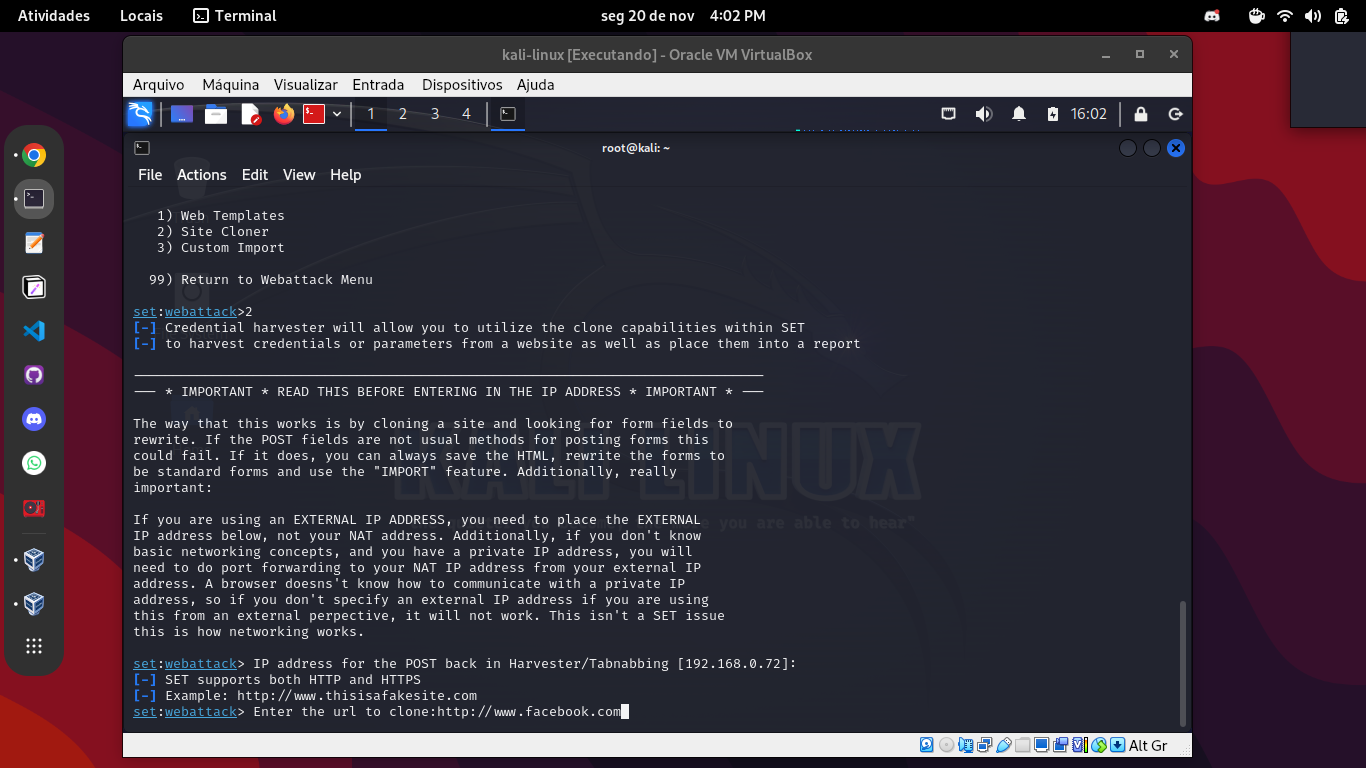
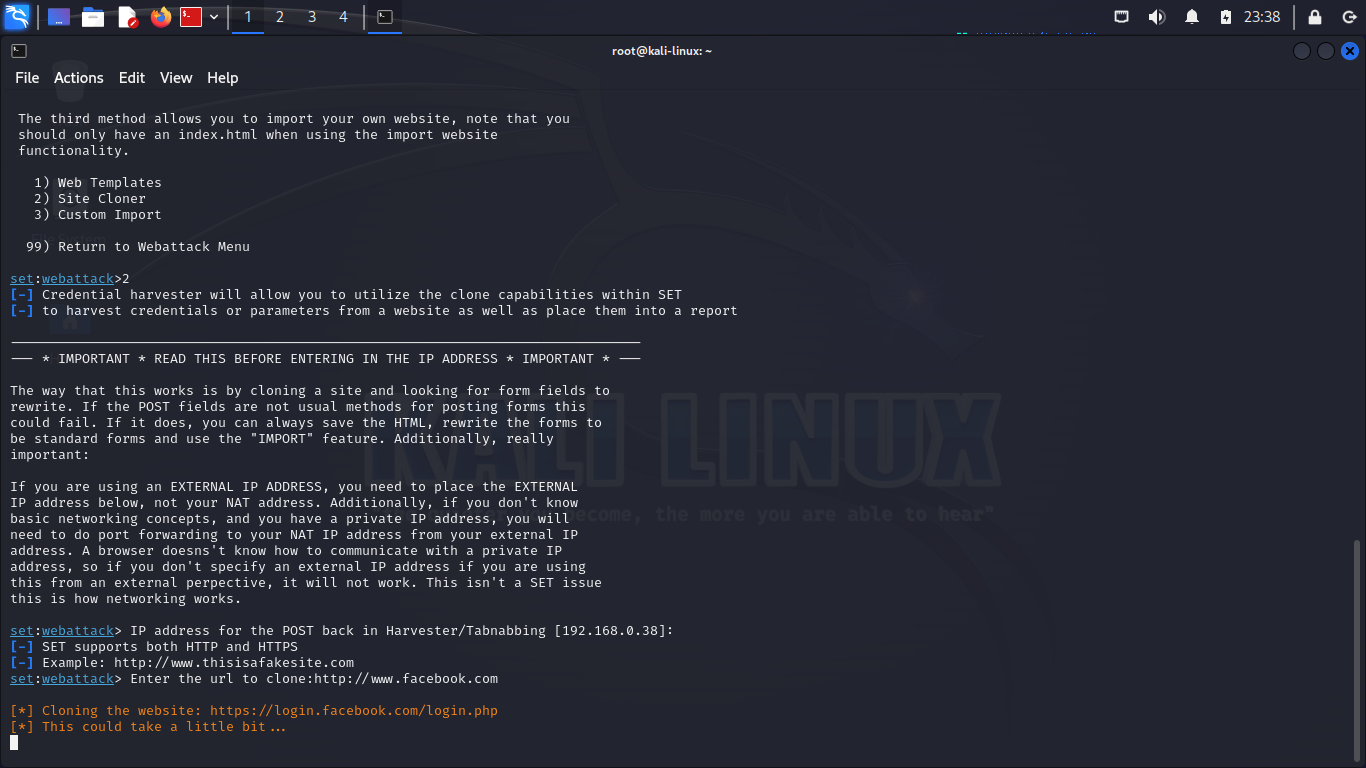
conclusão do projeto, pós primeira revisão

Changed region(s): [[0.0, 0.0, 1.0, 1.0], [0.9839, 0.6875, 1.0, 1.0], [0.4305, 0.1875, 0.4919, 0.2188]]

diff --git a/README.md b/README.md
@@ -1,27 +1,33 @@
-# Phishing com Kali Linux/setoolkit e apache2 server
+# Phishing com Kali Linux/setoolkit e apache2 HTTP server
 
 ## Configurações:
 Antes de iniciar o setoolkit, precisamos realizar algumas configurações para utilizá-lo com o apache2. Por default, as configurações do setoolkit ficam no arquivo set.config no path -> /etc/setoolkit/set.config/ .
 
-imagem
+![imagem 8](images/8.png "imagem")
 
-Vamos abrir o arquivo com um editor de texto e editar as linhas circuladas na imagem, deixando da forma como estão exibidas neste exemplo:
+---
 
-imagem
+### Vamos abrir o arquivo com um editor de texto e editar as linhas sublinhadas nas imagens a seguir, deixando da forma como estão exibidas neste exemplo:
 
-OBS: Caso você tenha definido outro diretório raiz para o Apache que não seja o padrão, acrescente esse path no lugar do caminho /var/www/html/ .
+![imagem 9](images/9.png "imagem")
+
+![imagem 10](images/10.png "imagem")
+
+![imagem 11](images/11.png "imagem")
+
+**OBS:** *Caso você tenha definido outro diretório raiz para o Apache que não seja o padrão, acrescente esse path no lugar do caminho /var/www/html/ .*
 
 ### Porque utilizar o apache2 ?
 
 Como informado no arquivo de configuração do próprio setoolkit, a utilização do apache2 aumenta a performance do vetor de ataque quando utilizado no lugar do web server default, que é o Python Web Server.
 
-imagem
+![imagem 12](images/12.png "imagem")
 
 # Vamos começar!
 
 ## Passo 1:
 
-Com as seguintes configurações realizada, abra seu terminal como root e execute o seguinte comando:
+Com as configurações previamente realizadas, abra seu terminal como root e execute o seguinte comando:
 
 ```zsh
 $ setoolkit
@@ -52,18 +58,44 @@ Essa opção nos permite criar uma fakepage estática, clonando uma página de f
 
 ## Passo 5:
 
-Nesta etapa, é preciso informar o IP hospedeiro da página fake e o site a ser clonado via protocolo HTTP. O pŕoprio setoolkit já sugere o ip do host no momento da seleção da ferramenta Site Cloner.
+Nesta etapa, é preciso informar o IP hospedeiro da página fake e o site a ser clonado via protocolo HTTP. O setoolkit já sugere o ip do host no momento da seleção da ferramenta Site Cloner. Basta pressionar Enter caso queira utilizar o IP sugerido ou adicionar outro de sua preferência *(Atenção para manter as mesmas configurações no apache2. As portas também precisam ser as mesmas no apache2 e no setoolkit, que escutam na porta 80 por default)*. Em seguida, é preciso inserir a URL do site que será clonado via HTTP. O processo pode demorar alguns minutos.
 
 ![imagem 5](images/5.png "imagem")
 
 ## Passo 6:
 
-Agora, ao inserirmos o IP na barra de endereços do navegador será exibida uma versão falsa da página clonada. Depois de preecher o formulário e submeter, a pessoa será redirecionada ao site original e poderemos ter acesso aos dados inseridos no formulário.    
+Após o fim do processo, é possível que o terminal nos informe que o service do apache2 pode não estar rodando e se queremos que o setoolkit o inicie para nós. Vamos confirmar com a letra y.
+
+![imagem 14](images/14.png "imagem")
+
+## Onde os logs serão salvos?
+
+Logo após a cópia do site ter sido concluída, somos informados que o serviço já está no ar e que os logs serão salvos no diretório raiz do apache, sob o nome de harvester seguido das informações da data e no formato .txt.
+
+![imagem 15](images/15.png "imagem")
+
+## Acessando a página clonada:
+
+Agora, ao inserirmos o IP na barra de endereços do navegador, será exibida uma versão falsa da página clonada. Depois de preecher o formulário e submeter, a pessoa será redirecionada ao site original e poderemos ter acesso aos dados inseridos no formulário.    
 
 ![imagem 6](images/6.png "imagem")
 
+![imagem 6-1](images/6-1.png "imagem")
+
 ## Resultado:
 
-No terminal, na janela do setoolkit, serão exibidos os valores inseridos pela pessoa no formulário. Use a ferramenta com sabedoria!    
+Pronto! Se tudo deu certo, os valores inseridos no formulário estarão contidos no local informado pelo setoolkit, que é o diretório raiz do apache2, no caso deste exemplo, /var/www/html .
 
-![imagem 7](images/7.png "imagem")
+Abrindo o terminal e nos movendo para o diretório, podemos ver o arquivo harvester_DATADEUSO.txt
+
+![imagem 16](images/16.png "imagem")
+
+---
+
+Utilizando o comando ```cat``` para exibir o conteúdo do arquivo ou simplesmente abrindo com um editor de texto, podemos ver o registro dos valores inseridos pela pessoa no formulário.
+
+![imagem 17](images/17.png "imagem")
+
+---
+
+# *Utilize os aprendizados com sabedoria!*
